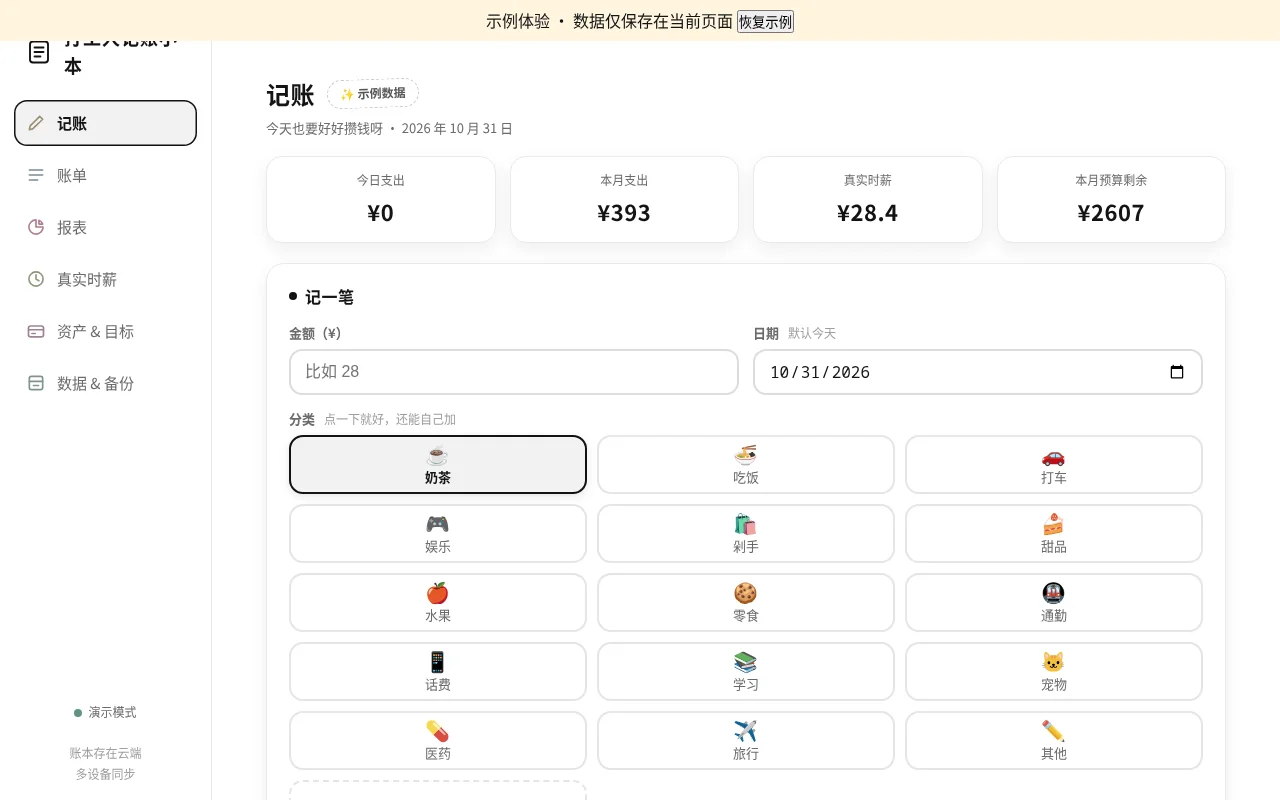
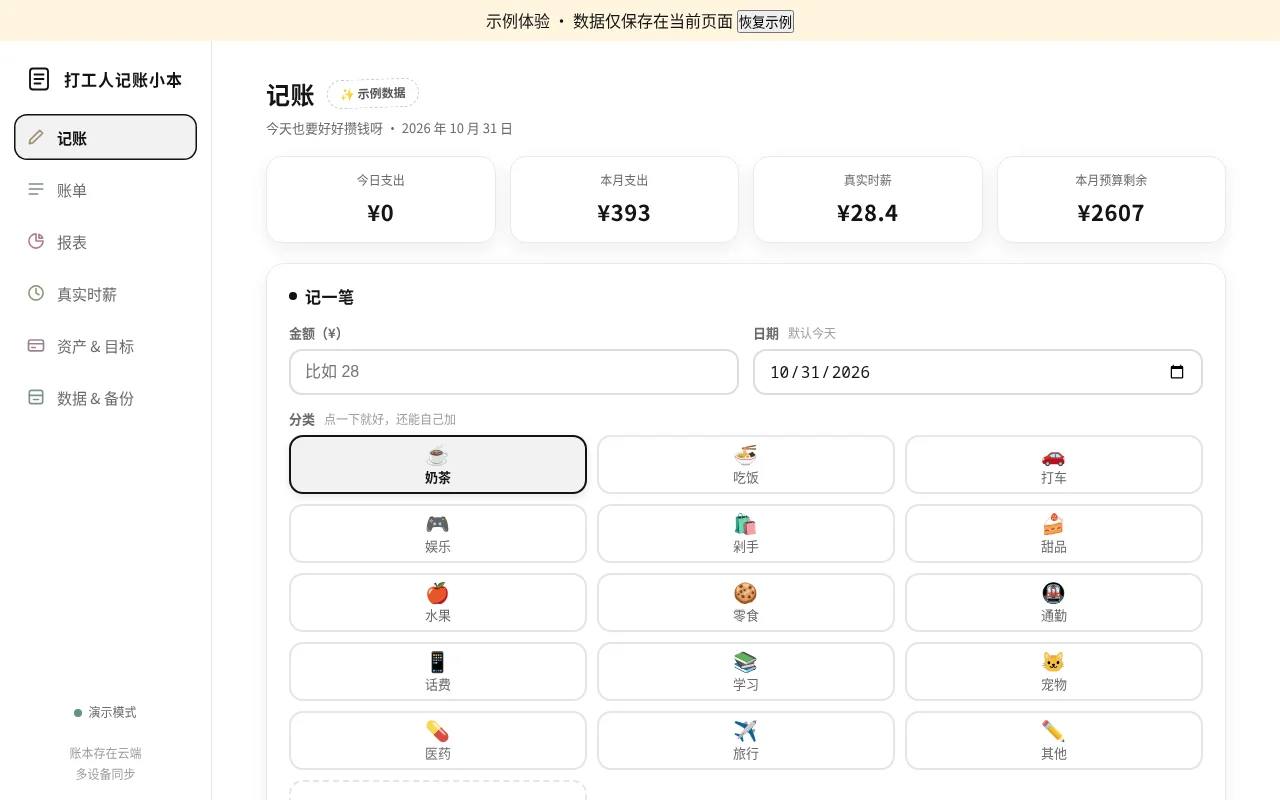
Add personal ledger template

diff --git a/c826255f5fac1803174a7f00/showcase/preview.html b/c826255f5fac1803174a7f00/showcase/preview.html
@@ -27,11 +27,11 @@ body{
 button{font-family:inherit}
 /* ========== 侧边栏（桌面端） ========== */
 .sidebar{
-  position:fixed; left:0; top:0; bottom:0; width:212px; z-index:10;
+  position:fixed; left:0; top:40px; bottom:0; width:212px; z-index:10;
   background:var(--cream2); border-right:1px solid #E8E8E8;
   padding:24px 14px 16px; display:flex; flex-direction:column; gap:6px;
 }
-.logo{display:flex;align-items:center;gap:10px;font-weight:800;font-size:18px;padding:0 10px;margin-bottom:14px;letter-spacing:1px}
+.logo{display:flex;align-items:center;gap:10px;font-weight:800;font-size:16px;padding:0 10px;margin-bottom:14px;letter-spacing:1px}
 .logo svg{width:30px;height:30px;flex:none}
 .nav-item{
   display:flex;align-items:center;gap:11px;width:100%;min-height:46px;padding:0 12px;
